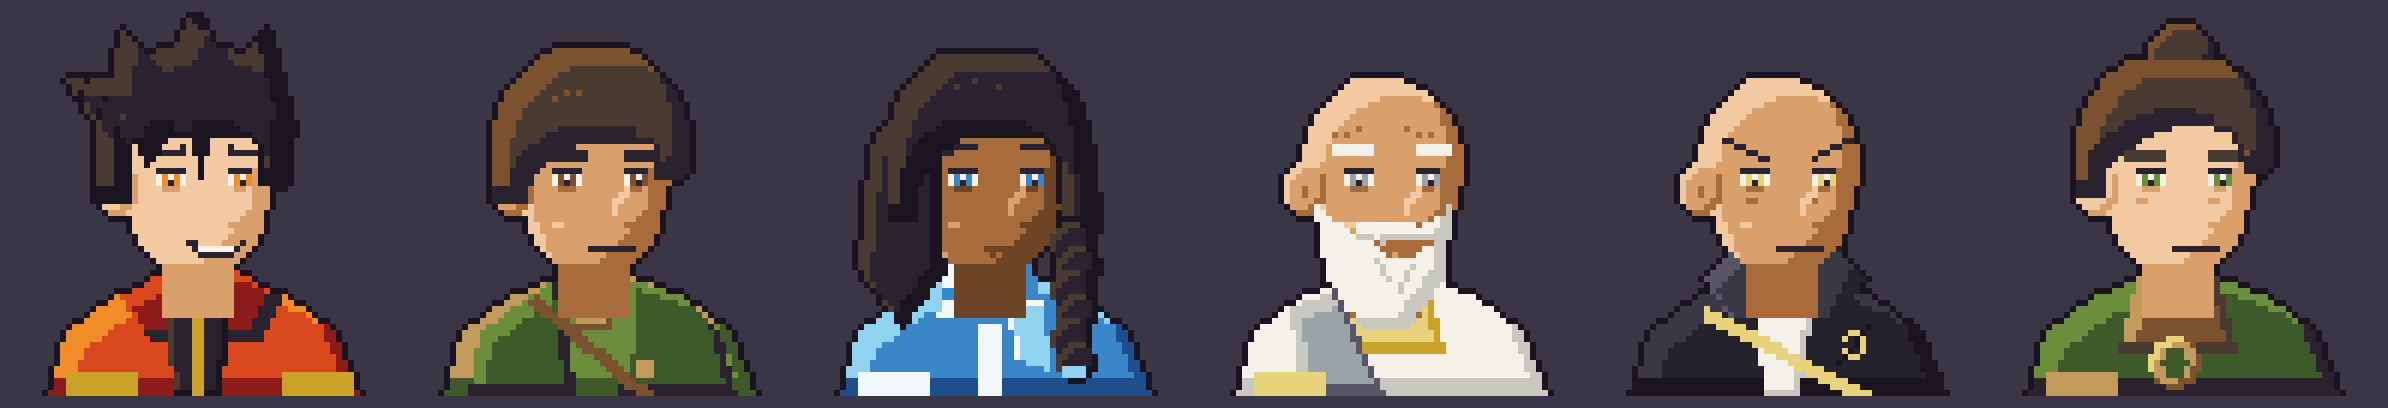
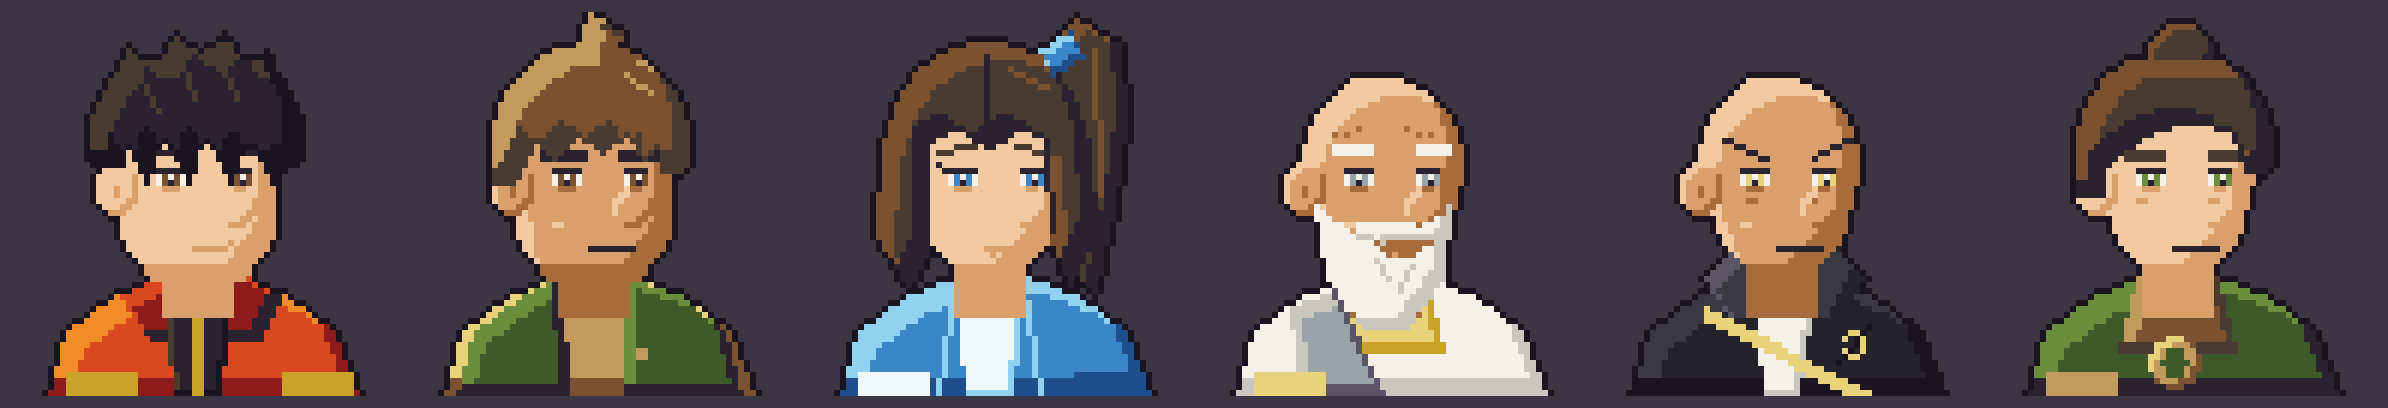
Retratos actualizados: Ryu con flequillo, Gao con remolino y Nerea con coleta
Claude-Session: https://claude.ai/code/session_01WeVLkbnfV9eAUNL81PUV7L

Changed region(s): [[0.3409, 0.0294, 0.4958, 0.9706], [0.1859, 0.0294, 0.3409, 0.9706], [0.031, 0.0294, 0.1549, 0.6765]]

diff --git a/herramientas/retratos.py b/herramientas/retratos.py
@@ -117,7 +117,9 @@ OJO_CERRADO = [
 ]
 
 
-def cara_mask():
+def cara_mask(forma=None):
+    if forma == "cuadrada":
+        return elipse(30, 24, 13, 13) | poli([(17, 26), (43, 26), (43, 37), (38, 44), (23, 44), (18, 37)])
     return elipse(30, 25, 13, 14) | poli([(17, 27), (43, 27), (40, 38), (34, 44), (27, 44), (21, 38)])
 
 
@@ -126,7 +128,7 @@ def rostro(R, d):
     piel = d["piel"]
     cuello = rect(25, 36, 36, 50)
     R.pintar(cuello, (piel[2], piel[2], piel[2]), 1)
-    cara = cara_mask()
+    cara = cara_mask(d.get("cara"))
     R.pintar(cara, piel, 3)
     # oreja trasera
     R.pintar(elipse(17, 29, 3, 4), piel, 1)
@@ -141,6 +143,9 @@ def rostro(R, d):
     else:
         R.plantilla(OJO_CERCA, 23, 26, roles)
         R.plantilla(OJO_LEJOS, 35, 26, roles)
+        if d.get("pestanas"):
+            for x, y in ((23, 26), (22, 25), (40, 26), (41, 25)):
+                R.px(x, y, OSC)
     # cejas
     cj = d["ceja"]
     for (x0, y0, x1, y1) in d["cejas"]:
@@ -154,6 +159,9 @@ def rostro(R, d):
         R.color(linea([(29, 38), (31, 40), (36, 40), (38, 38)]), OSC)
         R.color(rect(31, 39, 36, 39), BLANCO)
         R.color(linea([(30, 38), (30, 38)]), OSC)
+    elif boca == "leve":
+        R.color(linea([(30, 39), (35, 39)]), d["piel"][2])
+        R.px(36, 38, d["piel"][2])
     elif boca == "firme":
         R.color(linea([(30, 39), (37, 39)]), OSC)
         R.px(38, 38, piel[2])
@@ -319,6 +327,87 @@ RETRATOS = {
 }
 
 
+def pelo_flequillo(R, d, cara):
+    """Ryu: pelo corto texturizado con mechones en punta sobre la frente, lados cortos."""
+    t = d["pelo"]
+    m = poli([(13, 8), (47, 8), (47, 24), (44, 24), (43, 28), (40, 22), (38, 22), (36, 28), (33, 21),
+              (31, 21), (29, 28), (26, 21), (24, 21), (22, 28), (19, 22), (16, 24), (13, 24)]) & elipse(30, 21, 17, 17)
+    m |= poli([(17, 11), (19, 6), (23, 9)]) | poli([(24, 8), (27, 4), (31, 7)]) | poli([(31, 7), (35, 4), (38, 8)]) | poli([(38, 9), (42, 7), (43, 12)])
+    m |= rect(14, 18, 18, 25) | rect(42, 18, 45, 25)
+    R.pintar(m, t, 3)
+    R.borde_interno(m, t[2], cara)
+    for a, b in (((21, 11), (24, 16)), ((28, 8), (30, 14)), ((35, 9), (37, 14))):
+        R.color(linea([a, b]), t[1])
+
+
+def pelo_gao(R, d, cara):
+    """Gao: pelo castaño corto con remolino arriba y flequillo desordenado."""
+    t = d["pelo"]
+    m = poli([(13, 6), (47, 6), (47, 25), (44, 25), (42, 21), (39, 24), (36, 20), (32, 23), (28, 20),
+              (24, 24), (21, 21), (18, 27), (13, 27)]) & elipse(30, 22, 16, 17)
+    m |= rect(14, 20, 17, 28) | rect(42, 20, 45, 26)
+    remolino = poli([(27, 9), (30, 0), (35, 3), (33, 9)])
+    R.pintar(m | remolino, t, 3)
+    R.borde_interno(m, t[2], cara)
+    R.color(linea([(30, 2), (31, 8)]), t[1])
+    R.color(linea([(22, 12), (26, 9)]), t[1]); R.color(linea([(36, 10), (40, 13)]), t[1])
+
+
+def cola_nerea(R, d):
+    """Coleta alta: sale de la coronilla y cae por detrás a la derecha."""
+    t = d["pelo"]
+    cola = poli([(38, 8), (45, 1), (52, 5), (53, 18), (51, 32), (48, 46), (44, 42), (46, 28), (45, 16)])
+    R.pintar(cola, t, 2)
+    R.color(linea([(48, 6), (49, 30)]), t[1])
+
+
+def pelo_coleta(R, d, cara):
+    """Nerea: flequillo abierto al centro que enmarca la cara + lazo de la coleta."""
+    t = d["pelo"]
+    m = poli([(10, 4), (50, 4), (50, 26), (44, 26), (42, 22), (36, 19), (31, 22), (30, 22), (25, 19),
+              (19, 22), (17, 27), (10, 27)]) & elipse(30, 21, 16, 16)
+    m |= poli([(13, 21), (20, 22), (20, 40), (17, 45), (12, 37)])
+    m |= poli([(40, 22), (47, 21), (48, 37), (44, 45), (41, 37)])
+    R.pintar(m, t, 3)
+    R.borde_interno(m, t[2], cara)
+    R.color(linea([(30, 7), (30, 20)]), t[2])
+    R.color(linea([(20, 12), (26, 9)]), t[1]); R.color(linea([(34, 9), (40, 12)]), t[1])
+    R.pintar(poli([(39, 6), (44, 3), (46, 7), (41, 10)]), (d["lazo"], "#8FD3F0", "#1E4F8C"), 1)
+
+
+def ropa_gao_v3(R, d):
+    torso(R, ("#C29A5B", "#E8D27A", "#7A5230"))
+    R.pintar(poli([(8, 64), (11, 53), (19, 47), (25, 44), (26, 64)]), P.VERDE_OSC, 2)
+    R.pintar(poli([(36, 44), (45, 47), (52, 53), (55, 64), (36, 64)]), P.VERDE_OSC, 2)
+    R.pintar(poli([(25, 44), (36, 44), (34, 50), (27, 50)]), ("#7A5230", "#C29A5B", "#4A3B32"), 1)
+    R.color(rect(38, 56, 39, 57), "#C29A5B")
+
+
+def ropa_nerea_v3(R, d):
+    torso(R, P.AZUL)
+    R.pintar(poli([(25, 44), (36, 44), (34, 64), (27, 64)]), ("#F2F7FA", "#F2F7FA", "#8FD3F0"), 1)
+    R.color(linea([(25, 44), (22, 64)]), "#8FD3F0"); R.color(linea([(36, 44), (39, 64)]), "#8FD3F0")
+    R.color(rect(9, 60, 20, 63), "#F2F7FA"); R.color(rect(45, 60, 56, 63), "#1E4F8C")
+
+
+RETRATOS["ryu"] = dict(
+    piel=P.PIEL_CLARA, iris="#7A5230", ceja="#2B2230", ceja_grosor=2, cara="cuadrada",
+    cejas=[(22, 22, 28, 23), (35, 23, 41, 22)], boca="leve",
+    pelo=P.PELO_NEGRO, peinado=pelo_flequillo, ropa=ropa_ryu,
+)
+RETRATOS["gao"] = dict(
+    piel=P.PIEL_MEDIA, iris="#7A5230", ceja="#2B2230", ceja_grosor=2, cara="cuadrada",
+    cejas=[(22, 23, 29, 23), (35, 23, 41, 23)], boca="firme",
+    pelo=("#7A5230", "#C29A5B", "#4A3B32"), peinado=pelo_gao, ropa=ropa_gao_v3,
+)
+RETRATOS["nerea"] = dict(
+    piel=P.PIEL_CLARA, iris="#3A86C8", ceja="#4A3B32", pestanas=True,
+    cejas=[(22, 23, 28, 22), (35, 22, 41, 23)], boca="neutral",
+    pelo=("#4A3B32", "#7A5230", "#2B2230"), lazo="#3A86C8",
+    atras=cola_nerea, peinado=pelo_coleta, ropa=ropa_nerea_v3,
+)
+
+
 def barba_tsering(R, d, cara):
     b = ("#F4F1E8", "#F4F1E8", "#C8C8C0")
     m = poli([(19, 32), (24, 36), (30, 38), (36, 36), (41, 32), (40, 44), (34, 52), (27, 52), (21, 44)])
@@ -334,6 +423,8 @@ def dibujar(nombre):
     d = RETRATOS[nombre]
     R = Retrato()
     # el pelo largo de Nerea va detrás de todo
+    if d.get("atras"):
+        d["atras"](R, d)
     d["ropa"](R, d)
     cara = rostro(R, d)
     d["peinado"](R, d, cara)
